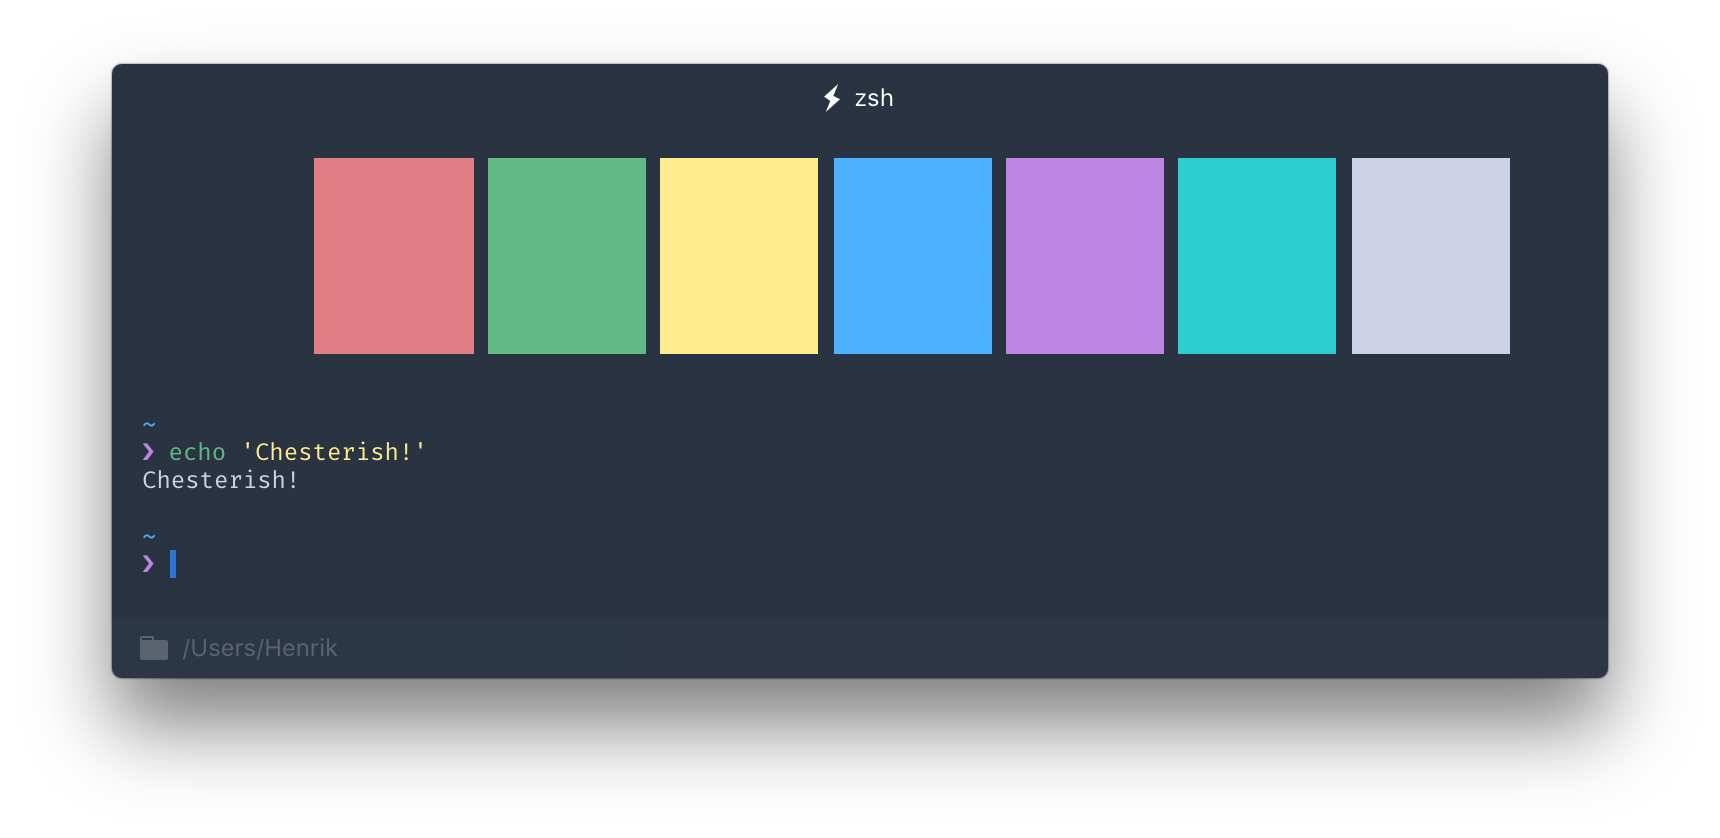
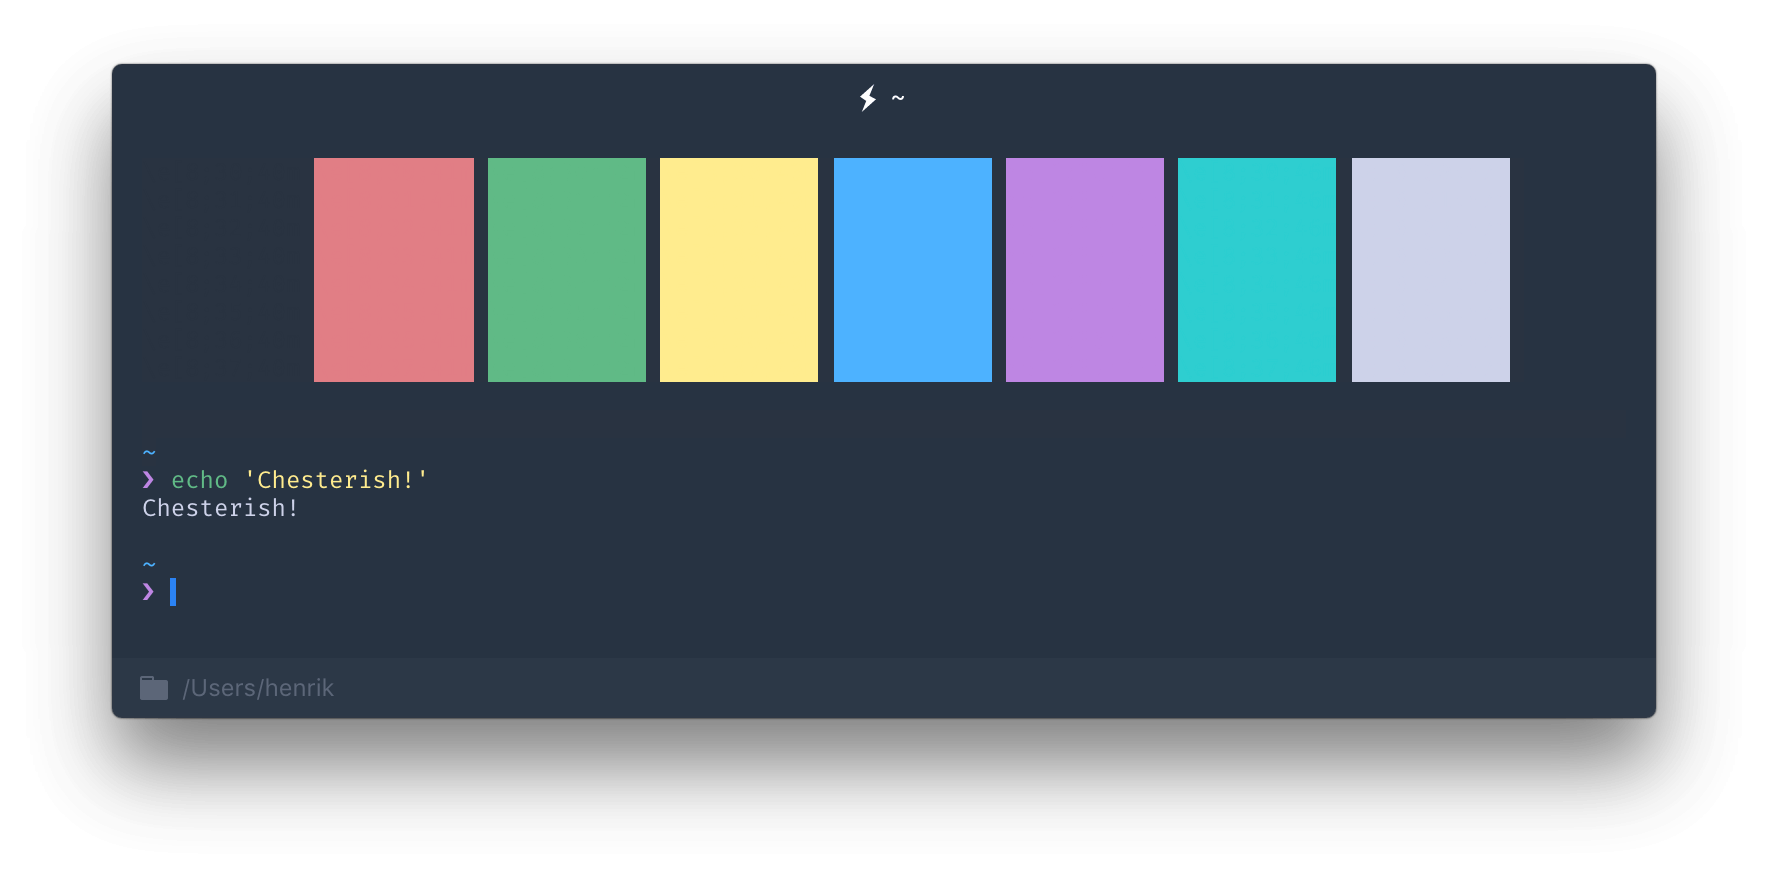
fixes for latest hyper, updated screens

diff --git a/index.js b/index.js
@@ -92,7 +92,8 @@ exports.decorateConfig = config => {
                 transition: background 150ms ease;
             }
             .tab_tab:last-child, .tab_tab.tab_active:last-child {
-                border-right-color: transparent !important;
+                border-right-width: 0 !important;
+                padding-right: 1px;
             }
             .tab_tab:hover {
                 color: #FFFFFF;
@@ -103,8 +104,8 @@ exports.decorateConfig = config => {
                 border-color: #354253 !important;
                 background-color: transparent;
             }
-            .tab_tab.tab_active:before {
-                content: "";
+            .tab_tab.tab_active::before {
+                content: '';
                 position: absolute;
                 left: 0;
                 right: 0;
@@ -232,15 +233,15 @@ exports.decorateConfig = config => {
 };
 
 // Hide traffic buttons
-exports.decorateBrowserOptions = defaults => {
-    const clean = Object.assign({ frame: false }, defaults);
-    delete clean.titleBarStyle;
-    return clean;
-};
+exports.decorateBrowserOptions = defaults => Object.assign({}, defaults, {
+    titleBarStyle: '',
+    transparent: true,
+    frame: false
+})
 
 // Current shell service
 const getService = (title) => {
-    const service = (title.split(' ')[0] === 'gulp' || title.split(' ')[0] === 'php' || title.split(' ')[0] === 'node' || title.split(' ')[0] === 'vim') ? title : 'shell';
+    const service = (title.split(' ')[1] === 'gulp' || title.split(' ')[1] === 'php' || title.split(' ')[1] === 'node' || title.split(' ')[1] === 'vim') ? title.split(' ')[1] : 'shell';
     return service;
 };
 
@@ -330,45 +331,4 @@ exports.decorateTerm = (Term, { React }) => {
             }
         };
     };
-};
-
-let curPid;
-let curCwd;
-let uids = {};
-
-// Current shell cwd
-const setCwd = (pid) =>
-    exec(`lsof -p ${pid} | grep cwd | tr -s ' ' | cut -d ' ' -f9-`, (err, cwd) => {
-        cwd = cwd.trim();
-        curCwd = cwd;
-
-        store.dispatch({
-            type: 'SESSION_SET_CWD',
-            cwd
-        });
-});
-
-// Sessions
-exports.middleware = (store) => (next) => (action) => {
-    switch (action.type) {
-        case 'SESSION_PTY_DATA':
-            if (curPid && uids[action.uid] === curPid) setCwd(curPid);
-            break;
-        case 'SESSION_ADD':
-            uids[action.uid] = action.pid;
-            curPid = action.pid;
-            setCwd(curPid);
-            break;
-        case 'SESSION_SET_ACTIVE':
-            curPid = uids[action.uid];
-            setCwd(curPid);
-            break;
-        case 'SESSION_PTY_EXIT':
-            delete uids[action.uid];
-            break;
-        case 'SESSION_USER_EXIT':
-            delete uids[action.uid];
-            break;
-    }
-    next(action);
 };
